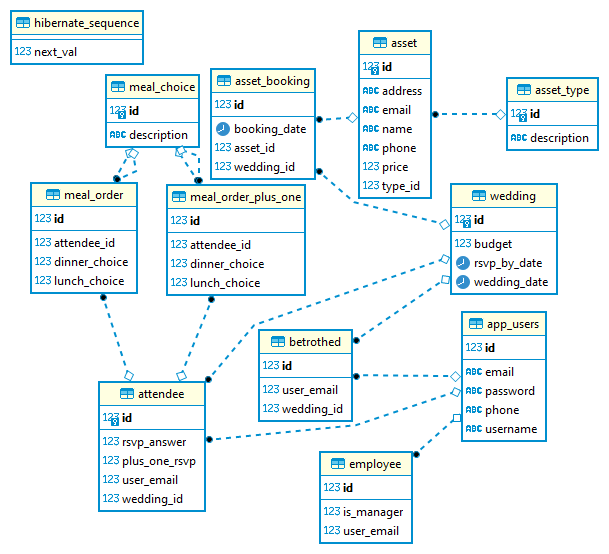
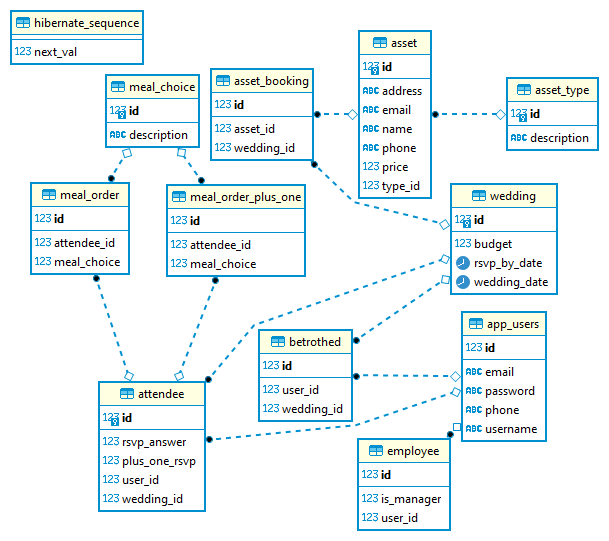
tweaking database and POJO definitions based on recent instructor update to P1 requirements

diff --git a/WeddingMart/src/main/java/com/revature/weddingmart/models/MealOrderPlusOne.java b/WeddingMart/src/main/java/com/revature/weddingmart/models/MealOrderPlusOne.java
@@ -17,26 +17,28 @@ import org.hibernate.annotations.OnDeleteAction;
 import com.revature.weddingmart.models.users.Attendee;
 
 @Entity
-@Table(name="meal_order_plus_one")
+@Table(name = "meal_order_plus_one")
 public class MealOrderPlusOne {
 	@Id
 	@GeneratedValue
 	private long id;
-	@OneToOne(optional=false, cascade = CascadeType.ALL)
+	@OneToOne(optional = false, cascade = CascadeType.ALL)
 	@OnDelete(action = OnDeleteAction.CASCADE)
-    @JoinColumn(name="attendee_id", unique=false, nullable=false, updatable=true)
+	@JoinColumn(name = "attendee_id", unique = false, nullable = false, updatable = true)
 	private Attendee attendee;
-	@ManyToOne(optional=true, cascade = CascadeType.ALL)
+	@ManyToOne(optional = true, cascade = CascadeType.ALL)
 	@OnDelete(action = OnDeleteAction.CASCADE)
-    @JoinColumn(name="lunch_choice", unique=false, nullable=true, updatable=true)
-	private MealChoice lunchChoice;
-	@ManyToOne(optional=true, cascade = CascadeType.ALL)
-	@OnDelete(action = OnDeleteAction.CASCADE)
-    @JoinColumn(name="dinner_choice", unique=false, nullable=true, updatable=true)
-	private MealChoice dinnerChoice;
+	@JoinColumn(name = "meal_choice", unique = false, nullable = true, updatable = true)
+	private MealChoice mealChoice;
 
-	
-	
+	public MealChoice getMealChoice() {
+		return mealChoice;
+	}
+
+	public void setMealChoice(MealChoice mealChoice) {
+		this.mealChoice = mealChoice;
+	}
+
 	public long getId() {
 		return id;
 	}
@@ -53,25 +55,9 @@ public class MealOrderPlusOne {
 		this.attendee = attendee;
 	}
 
-	public MealChoice getLunchChoice() {
-		return lunchChoice;
-	}
-
-	public void setLunchChoice(MealChoice lunchChoice) {
-		this.lunchChoice = lunchChoice;
-	}
-
-	public MealChoice getDinnerChoice() {
-		return dinnerChoice;
-	}
-
-	public void setDinnerChoice(MealChoice dinnerChoice) {
-		this.dinnerChoice = dinnerChoice;
-	}
-
 	@Override
 	public int hashCode() {
-		return Objects.hash(attendee, dinnerChoice, lunchChoice);
+		return Objects.hash(attendee, id, mealChoice);
 	}
 
 	@Override
@@ -83,14 +69,13 @@ public class MealOrderPlusOne {
 		if (getClass() != obj.getClass())
 			return false;
 		MealOrderPlusOne other = (MealOrderPlusOne) obj;
-		return Objects.equals(attendee, other.attendee) && Objects.equals(dinnerChoice, other.dinnerChoice)
-				&& Objects.equals(lunchChoice, other.lunchChoice);
+		return Objects.equals(attendee, other.attendee) && id == other.id
+				&& Objects.equals(mealChoice, other.mealChoice);
 	}
 
 	@Override
 	public String toString() {
-		return "MealOrderPlusOne [attendee=" + attendee + ", lunchChoice=" + lunchChoice + ", dinnerChoice="
-				+ dinnerChoice + "]";
+		return "MealOrderPlusOne [id=" + id + ", attendee=" + attendee + ", mealChoice=" + mealChoice + "]";
 	}
 
 }

diff --git a/WeddingMart/src/main/java/com/revature/weddingmart/models/MealOrder.java b/WeddingMart/src/main/java/com/revature/weddingmart/models/MealOrder.java
@@ -28,12 +28,8 @@ public class MealOrder {
 	private Attendee attendee;
 	@ManyToOne(optional = true, cascade = CascadeType.ALL)
 	@OnDelete(action = OnDeleteAction.CASCADE)
-	@JoinColumn(name = "lunch_choice", unique = false, nullable = true, updatable = true)
-	private MealChoice lunchChoice;
-	@ManyToOne(optional = true, cascade = CascadeType.ALL)
-	@OnDelete(action = OnDeleteAction.CASCADE)
-	@JoinColumn(name = "dinner_choice", unique = false, nullable = true, updatable = true)
-	private MealChoice dinnerChoice;
+	@JoinColumn(name = "meal_choice", unique = false, nullable = true, updatable = true)
+	private MealChoice mealChoice;
 
 	public long getId() {
 		return id;
@@ -51,25 +47,17 @@ public class MealOrder {
 		this.attendee = attendee;
 	}
 
-	public MealChoice getLunchChoice() {
-		return lunchChoice;
+	public MealChoice getMealChoice() {
+		return mealChoice;
 	}
 
-	public void setLunchChoice(MealChoice lunchChoice) {
-		this.lunchChoice = lunchChoice;
-	}
-
-	public MealChoice getDinnerChoice() {
-		return dinnerChoice;
-	}
-
-	public void setDinnerChoice(MealChoice dinnerChoice) {
-		this.dinnerChoice = dinnerChoice;
+	public void setMealChoice(MealChoice mealChoice) {
+		this.mealChoice = mealChoice;
 	}
 
 	@Override
 	public int hashCode() {
-		return Objects.hash(attendee, dinnerChoice, lunchChoice);
+		return Objects.hash(attendee, id, mealChoice);
 	}
 
 	@Override
@@ -81,14 +69,13 @@ public class MealOrder {
 		if (getClass() != obj.getClass())
 			return false;
 		MealOrder other = (MealOrder) obj;
-		return Objects.equals(attendee, other.attendee) && Objects.equals(dinnerChoice, other.dinnerChoice)
-				&& Objects.equals(lunchChoice, other.lunchChoice);
+		return Objects.equals(attendee, other.attendee) && id == other.id
+				&& Objects.equals(mealChoice, other.mealChoice);
 	}
 
 	@Override
 	public String toString() {
-		return "MealOrder [attendee=" + attendee + ", lunchChoice=" + lunchChoice + ", dinnerChoice=" + dinnerChoice
-				+ "]";
+		return "MealOrder [id=" + id + ", attendee=" + attendee + ", mealChoice=" + mealChoice + "]";
 	}
 
 }

diff --git a/WeddingMart/src/main/java/DAOTestDriver.java b/WeddingMart/src/main/java/DAOTestDriver.java
@@ -92,16 +92,14 @@ public class DAOTestDriver {
 		MealOrderDAO mealOrderDAO = new MealOrderDAO();
 		MealOrder mealOrder = new MealOrder();
 		mealOrder.setAttendee(attendee);
-		mealOrder.setLunchChoice(mealChoice);
-		mealOrder.setDinnerChoice(mealChoice);
+		mealOrder.setMealChoice(mealChoice);
 		mealOrder = mealOrderDAO.addMealOrder(mealOrder);
 		System.out.println(mealOrder);
 		
 		MealOrderPlusOneDAO mealOrderPlusOneDAO = new MealOrderPlusOneDAO();
 		MealOrderPlusOne mealOrderPlusOne = new MealOrderPlusOne();
 		mealOrderPlusOne.setAttendee(attendee);
-		mealOrderPlusOne.setLunchChoice(mealChoice);
-		mealOrderPlusOne.setDinnerChoice(mealChoice);
+		mealOrderPlusOne.setMealChoice(mealChoice);
 		mealOrderPlusOne = mealOrderPlusOneDAO.addMealOrderPlusOne(mealOrderPlusOne);
 		System.out.println(mealOrderPlusOne);
 		

diff --git a/WeddingMart/src/main/java/com/revature/weddingmart/models/users/Betrothed.java b/WeddingMart/src/main/java/com/revature/weddingmart/models/users/Betrothed.java
@@ -23,7 +23,7 @@ public class Betrothed {
 	private long id;
 	@ManyToOne(optional = false, cascade = CascadeType.ALL)
 	@OnDelete(action = OnDeleteAction.CASCADE)
-	@JoinColumn(name = "user_email", unique = false, nullable = false, updatable = false)
+	@JoinColumn(name = "user_id", unique = false, nullable = false, updatable = false)
 	private User user;
 	@ManyToOne(optional = false, cascade = CascadeType.ALL)
 	@OnDelete(action = OnDeleteAction.CASCADE)

diff --git a/WeddingMart/src/main/java/com/revature/weddingmart/models/users/Employee.java b/WeddingMart/src/main/java/com/revature/weddingmart/models/users/Employee.java
@@ -22,7 +22,7 @@ public class Employee {
 	private long id;
 	@OneToOne(optional = false, cascade = CascadeType.ALL)
 	@OnDelete(action = OnDeleteAction.CASCADE)
-	@JoinColumn(name = "user_email", unique = true, nullable = false, updatable = false)
+	@JoinColumn(name = "user_id", unique = true, nullable = false, updatable = false)
 	private User user;
 	@Column(name = "is_manager")
 	private boolean isManager;
